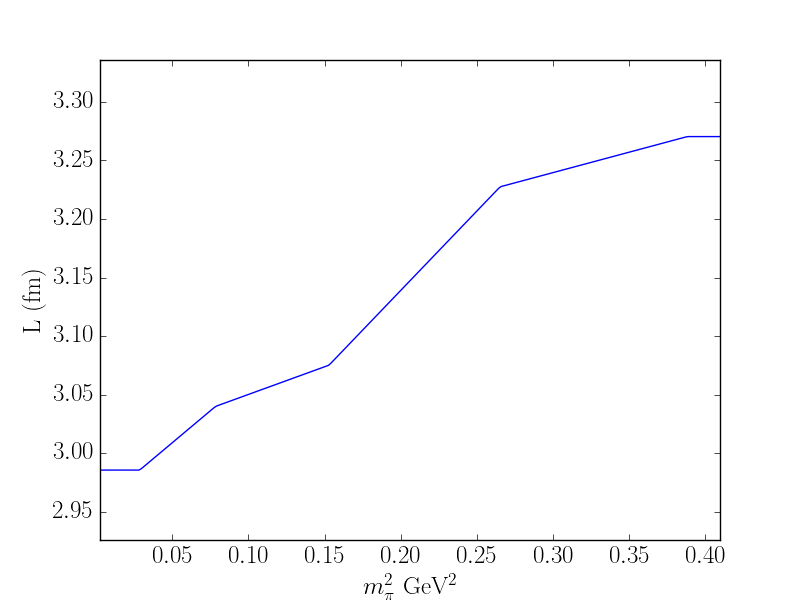
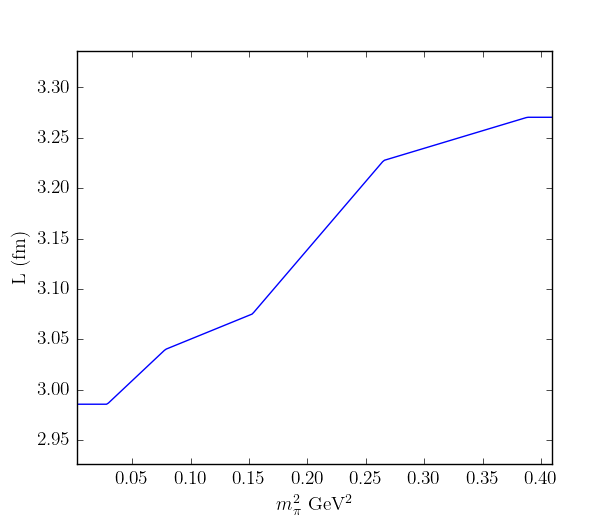
fixing image size

diff --git a/README.md b/README.md
@@ -42,7 +42,10 @@ To do the initial setup manually, go to step 2.
   I calculate the finite-volume spectrum for a varying set of parameters with `multiFitFin.x`.
 
 ## 1. newProject.py
-todo
+Run this script to create a new project, and then skip to step 4.
+Otherwise, go to step 2 of the work flow.
+
+TODO: check this script is still working after the changes I've made, then write this section.
 
 ## 3. HEFT.config
 I had the general goal over my PhD of being able to do an entire new HEFT study having to change as little as possible in the actual code.
